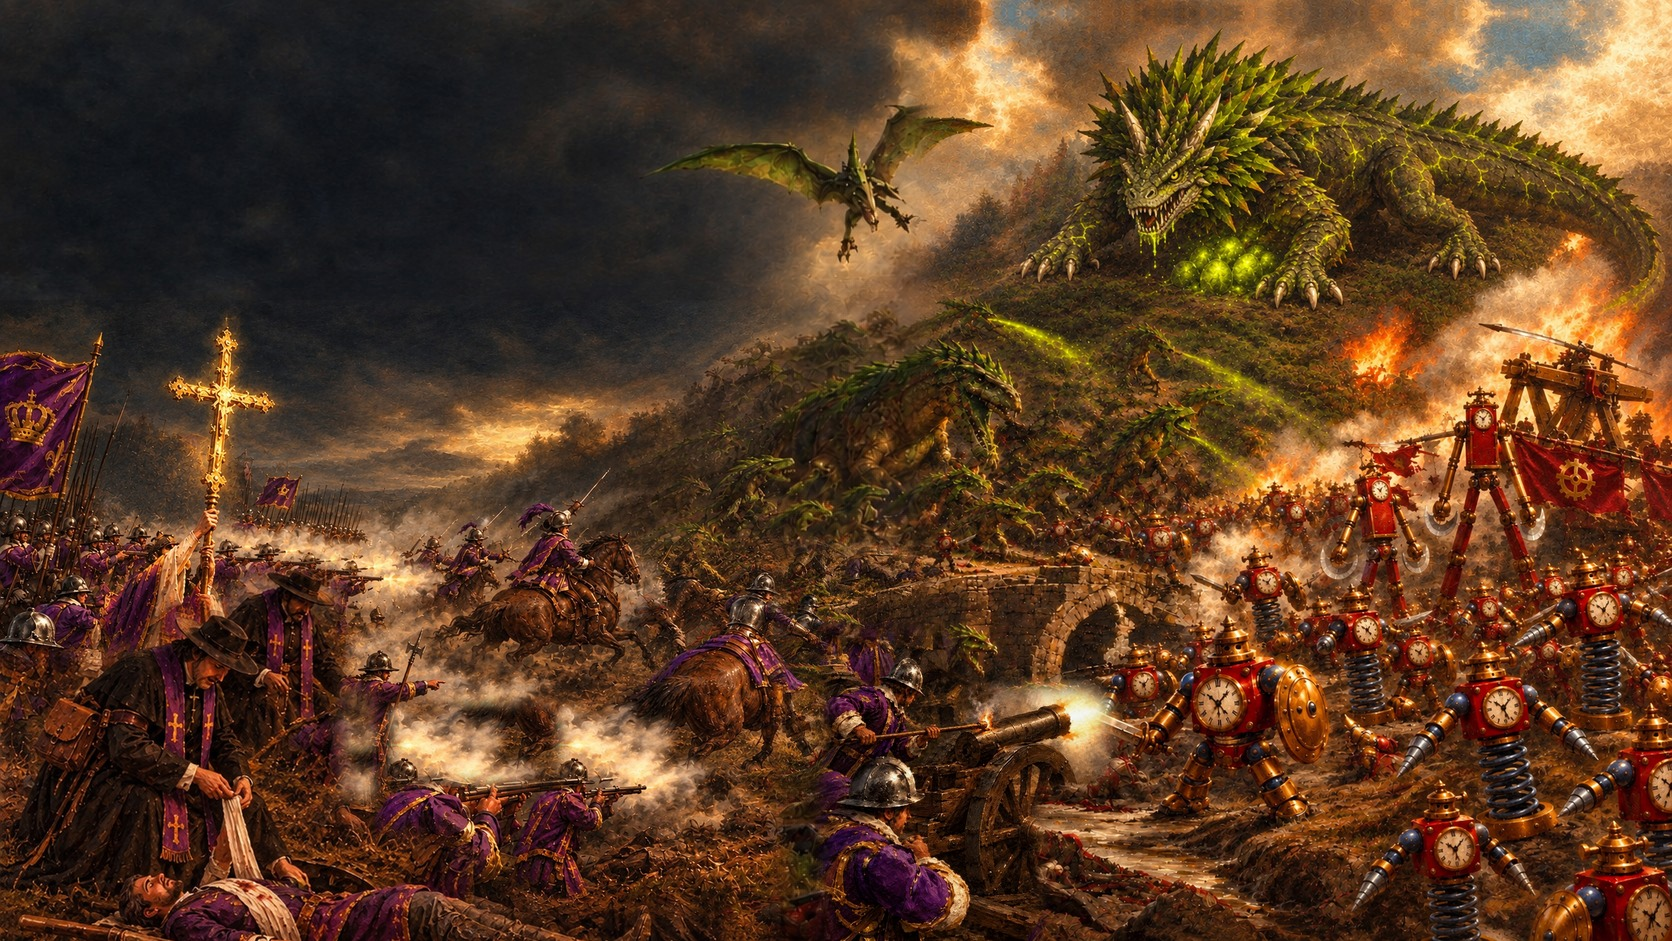
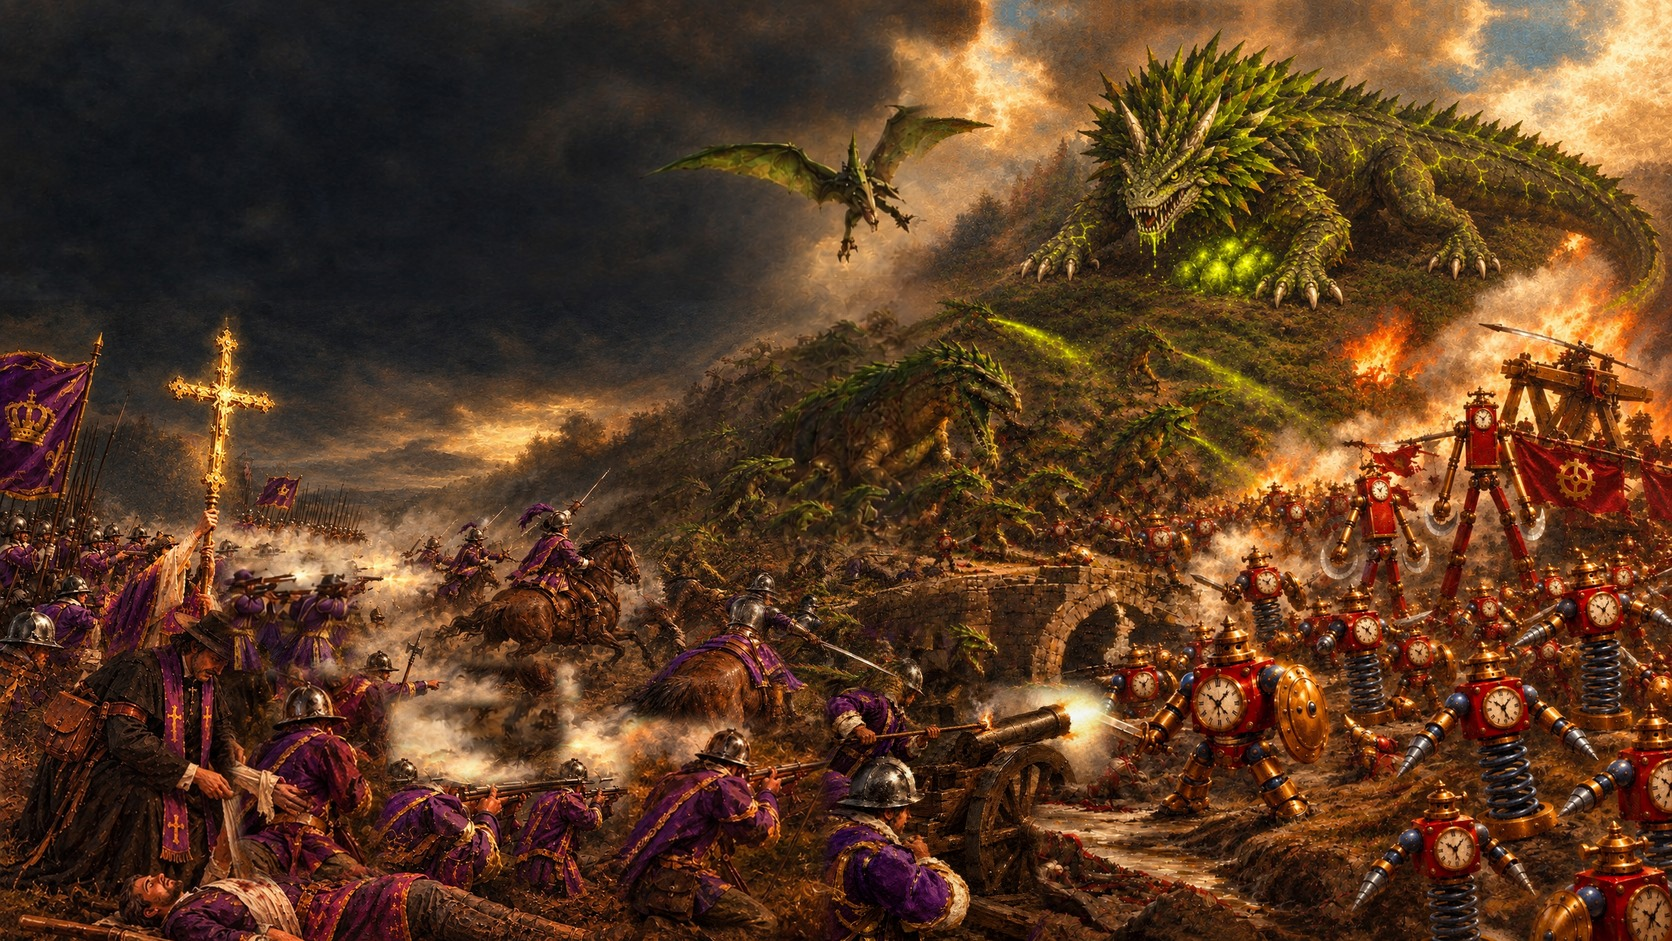
0.33.38: menu painting recomposed from earlier versions: second priest out, bandaged soldier and a kneeling musketeer from the first repaint, the musket line and the cavalry sword from the base
Claude-Session: https://claude.ai/code/session_01NtmEZhP1uA8k4DLQ7BYfMz

Changed region(s): [[0.0, 0.5855, 0.4976, 1.0], [0.4665, 0.678, 0.5598, 0.7396], [0.4354, 0.6164, 0.4665, 0.678]]

diff --git a/README.md b/README.md
@@ -2,7 +2,7 @@
 
 *(a working title: the game was called Holdfast until October 2026, but that name belongs to another game; the web address, the app file and the repository keep the old name for now so links and installs keep working)*
 
-**Play in your browser (version 0.33.37): https://holdfastrts.github.io/Holdfast/**
+**Play in your browser (version 0.33.38): https://holdfastrts.github.io/Holdfast/**
 
 **Windows program: https://holdfastrts.github.io/Holdfast/Holdfast_windows.zip** (rebuilt on every push; unzip it and run Holdfast.exe; if Windows warns "Windows protected your PC", click More info, then Run anyway)
 
